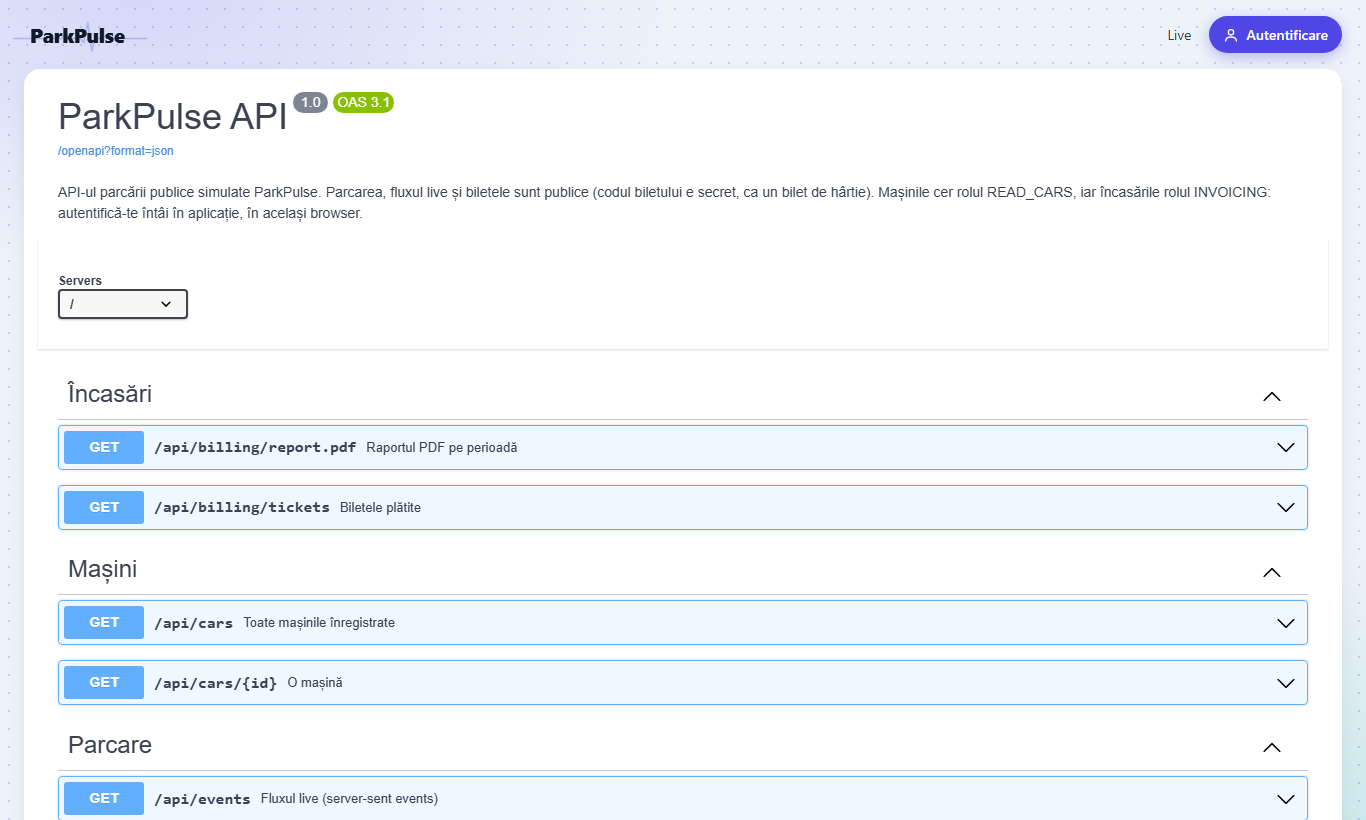
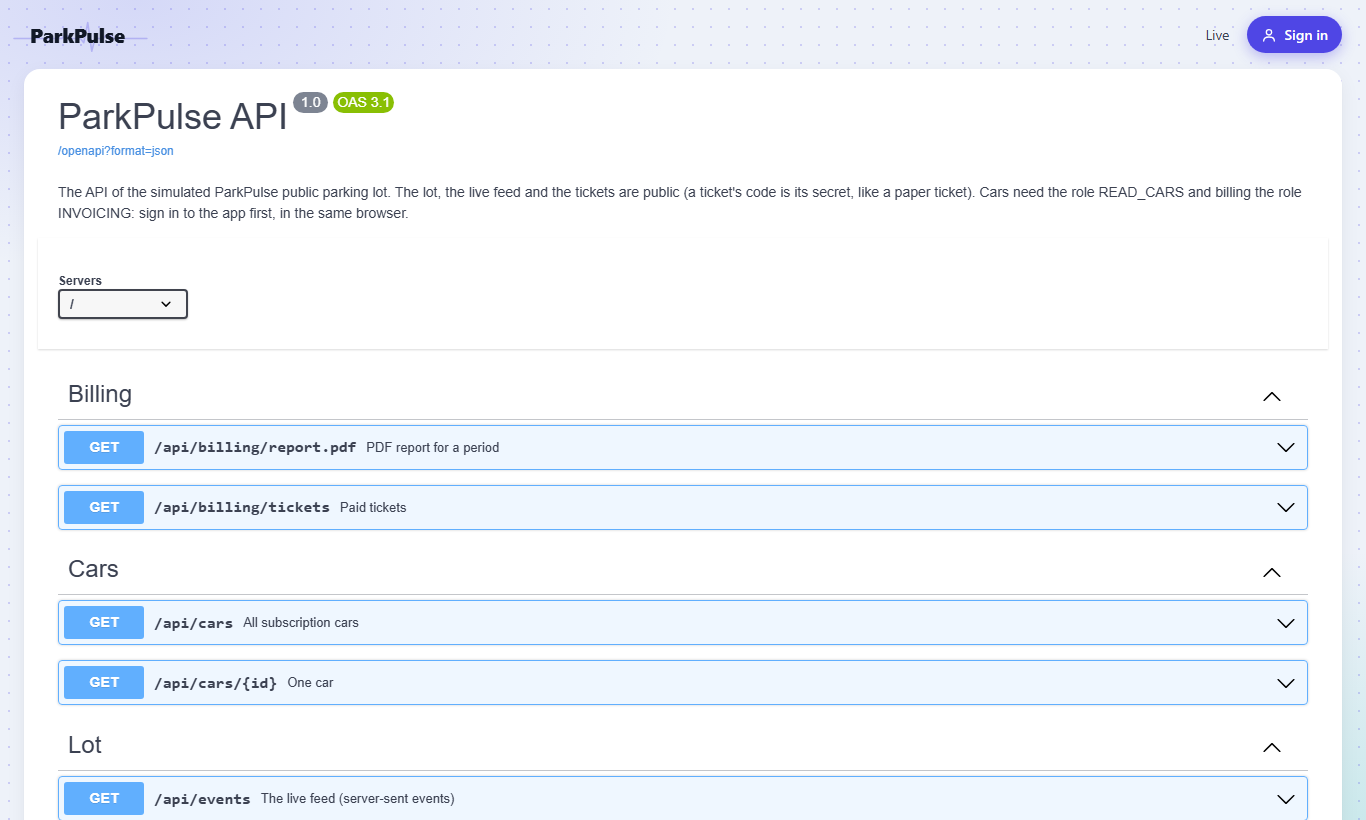
Describe the API in English and retake the README images in English

diff --git a/src/main/java/org/example/parkinglot/rest/ParkingLotApplication.java b/src/main/java/org/example/parkinglot/rest/ParkingLotApplication.java
@@ -11,9 +11,9 @@ import org.eclipse.microprofile.openapi.annotations.tags.Tag;
 @ApplicationPath("/api")
 @OpenAPIDefinition(
         info = @Info(title = "ParkPulse API", version = "1.0", description = """
-                API-ul parcării publice simulate ParkPulse. Parcarea, fluxul live și biletele sunt publice \
-                (codul biletului e secret, ca un bilet de hârtie). Mașinile cer rolul READ_CARS, iar încasările \
-                rolul INVOICING: autentifică-te întâi în aplicație, în același browser."""),
+                The API of the simulated ParkPulse public parking lot. The lot, the live feed and the tickets are \
+                public (a ticket's code is its secret, like a paper ticket). Cars need the role READ_CARS and \
+                billing the role INVOICING: sign in to the app first, in the same browser."""),
         // A relative address, so "Try it" calls the server the page was opened from
         servers = @Server(url = "/"),
         tags = {

diff --git a/src/main/java/org/example/parkinglot/servlets/Billing.java b/src/main/java/org/example/parkinglot/servlets/Billing.java
@@ -118,7 +118,7 @@ public class Billing extends HttpServlet {
             Map<String, Object> bar = new LinkedHashMap<>();
             boolean isToday = day.day().equals(today);
             String label = shortPeriod ? WEEKDAYS[day.day().getDayOfWeek().ordinal()] : String.valueOf(day.day().getDayOfMonth());
-            bar.put("label", isToday ? "Azi" : label);
+            bar.put("label", isToday ? "Today" : label);
             bar.put("height", max == 0 ? 0 : Math.max(2, Math.round(100f * day.totalBani() / max)));
             bar.put("today", isToday);
             bar.put("title", DAY_MONTH.format(day.day()) + ": " + Tariff.format(day.totalBani()) + ", " + day.tickets() + " tickets");

diff --git a/docs/capture_screenshots.py b/docs/capture_screenshots.py
@@ -68,8 +68,8 @@ def click_longest_parked(page):
 
 def main():
     with sync_playwright() as p:
-        browser = p.chromium.launch(args=['--lang=ro-RO'])
-        context = browser.new_context(viewport=VIEWPORT, device_scale_factor=1, locale='ro-RO',
+        browser = p.chromium.launch(args=['--lang=en-GB'])
+        context = browser.new_context(viewport=VIEWPORT, device_scale_factor=1, locale='en-GB',
                                       timezone_id='Europe/Bucharest')
         page = context.new_page()
 
